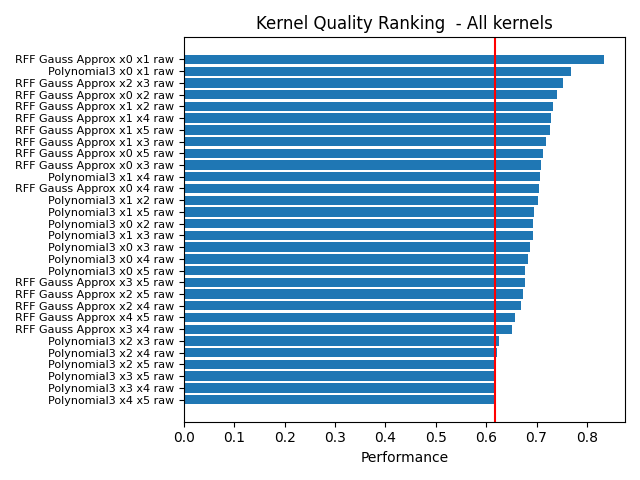
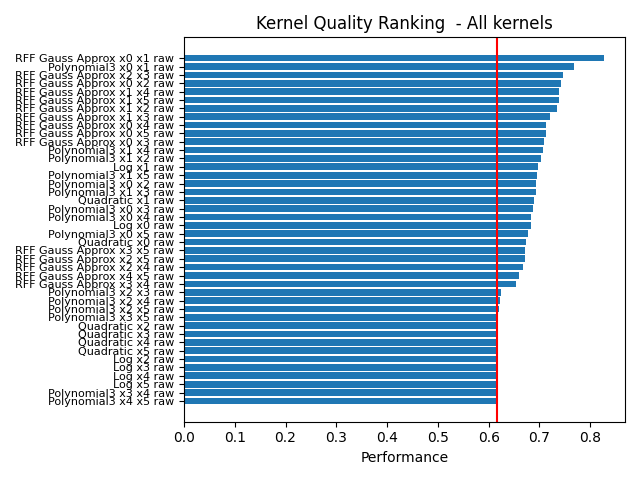
better demo pictures bugfix sigmoid kernel with no numpy routine

diff --git a/featurediscovery/kernels/monovariate/monovariate_kernels.py b/featurediscovery/kernels/monovariate/monovariate_kernels.py
@@ -205,9 +205,14 @@ class Sigmoid_Kernel(Abstract_Monovariate_Kernel):
         pass
 
     def _transform(self, x: Union[np.ndarray, cp.ndarray]):
-        x_ret = self.kernel_func(x)
-        return x_ret
+        if type(x) == cp.ndarray:
+            x_ret = self.kernel_func(x)
+            return x_ret
+        else:
+            x_ret = 1 / (1 + np.exp(-1*x))
+            return x_ret
 
+    '''
     def apply(self, df:pd.DataFrame):
         if not self.finalized:
             raise Exception('Attempting to apply kernel that has not been finalized yet')
@@ -223,6 +228,7 @@ class Sigmoid_Kernel(Abstract_Monovariate_Kernel):
         self.kernel_features = [k_feat_name]
 
         return df
+    '''
 
     def get_kernel_name(self):
         return 'Sigmoid {} {}'.format(self.kernel_input_features[0], self.standardizer.get_standardizer_name())

diff --git a/scripts/demo.py b/scripts/demo.py
@@ -94,7 +94,7 @@ if __name__ == '__main__':
     evaluate_kernels(df
                      , target_variable='y'
                      , feature_space=feature_space
-                     , monovariate_kernels=None
+                     , monovariate_kernels=['quadratic', 'log']
                      , duovariate_kernels=['poly3', 'rff_gauss']
                      , feature_standardizers=['raw']
                      , plot_feature_ranking=True

diff --git a/README.md b/README.md
@@ -71,6 +71,10 @@ TODO
 
 
 
+<div align="center"><img src="https://github.com/Ddasch/Feature_Discovery/blob/develop/docs/images/demo1_concat.png?raw=true " width="500"/></div>
+
+
+
 ```py
 
 >>> kernel_search.evaluate_kernels(df
